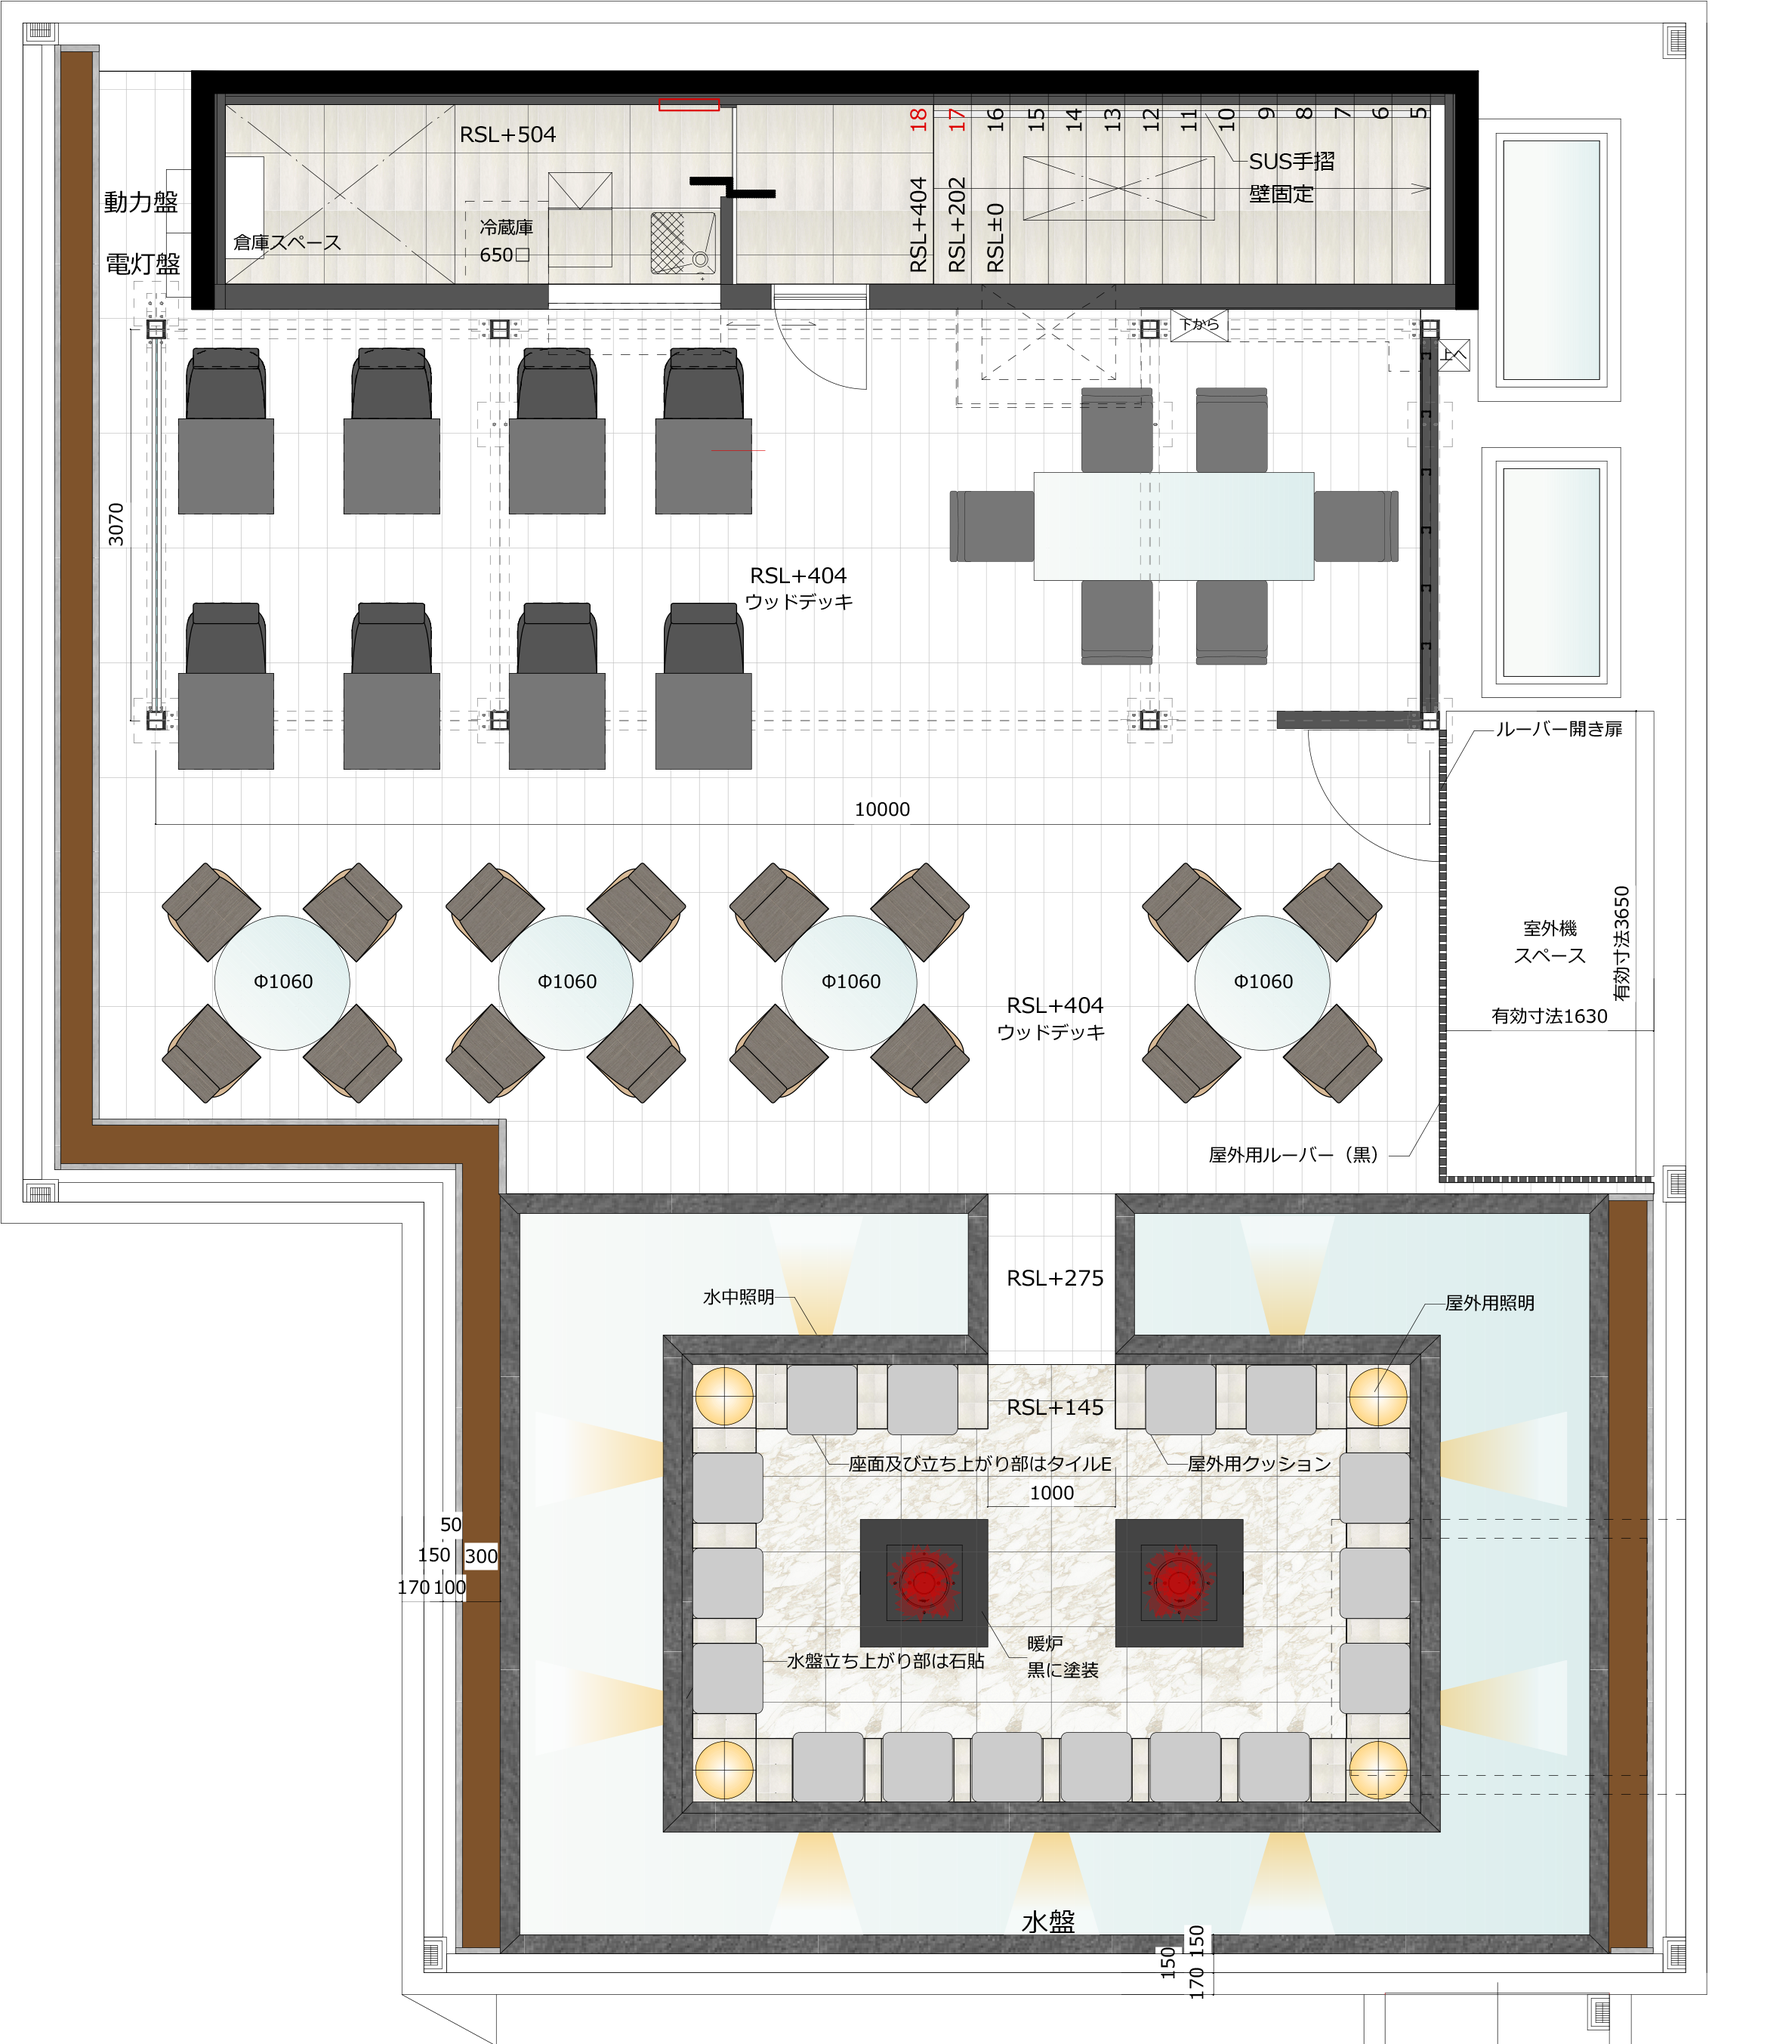
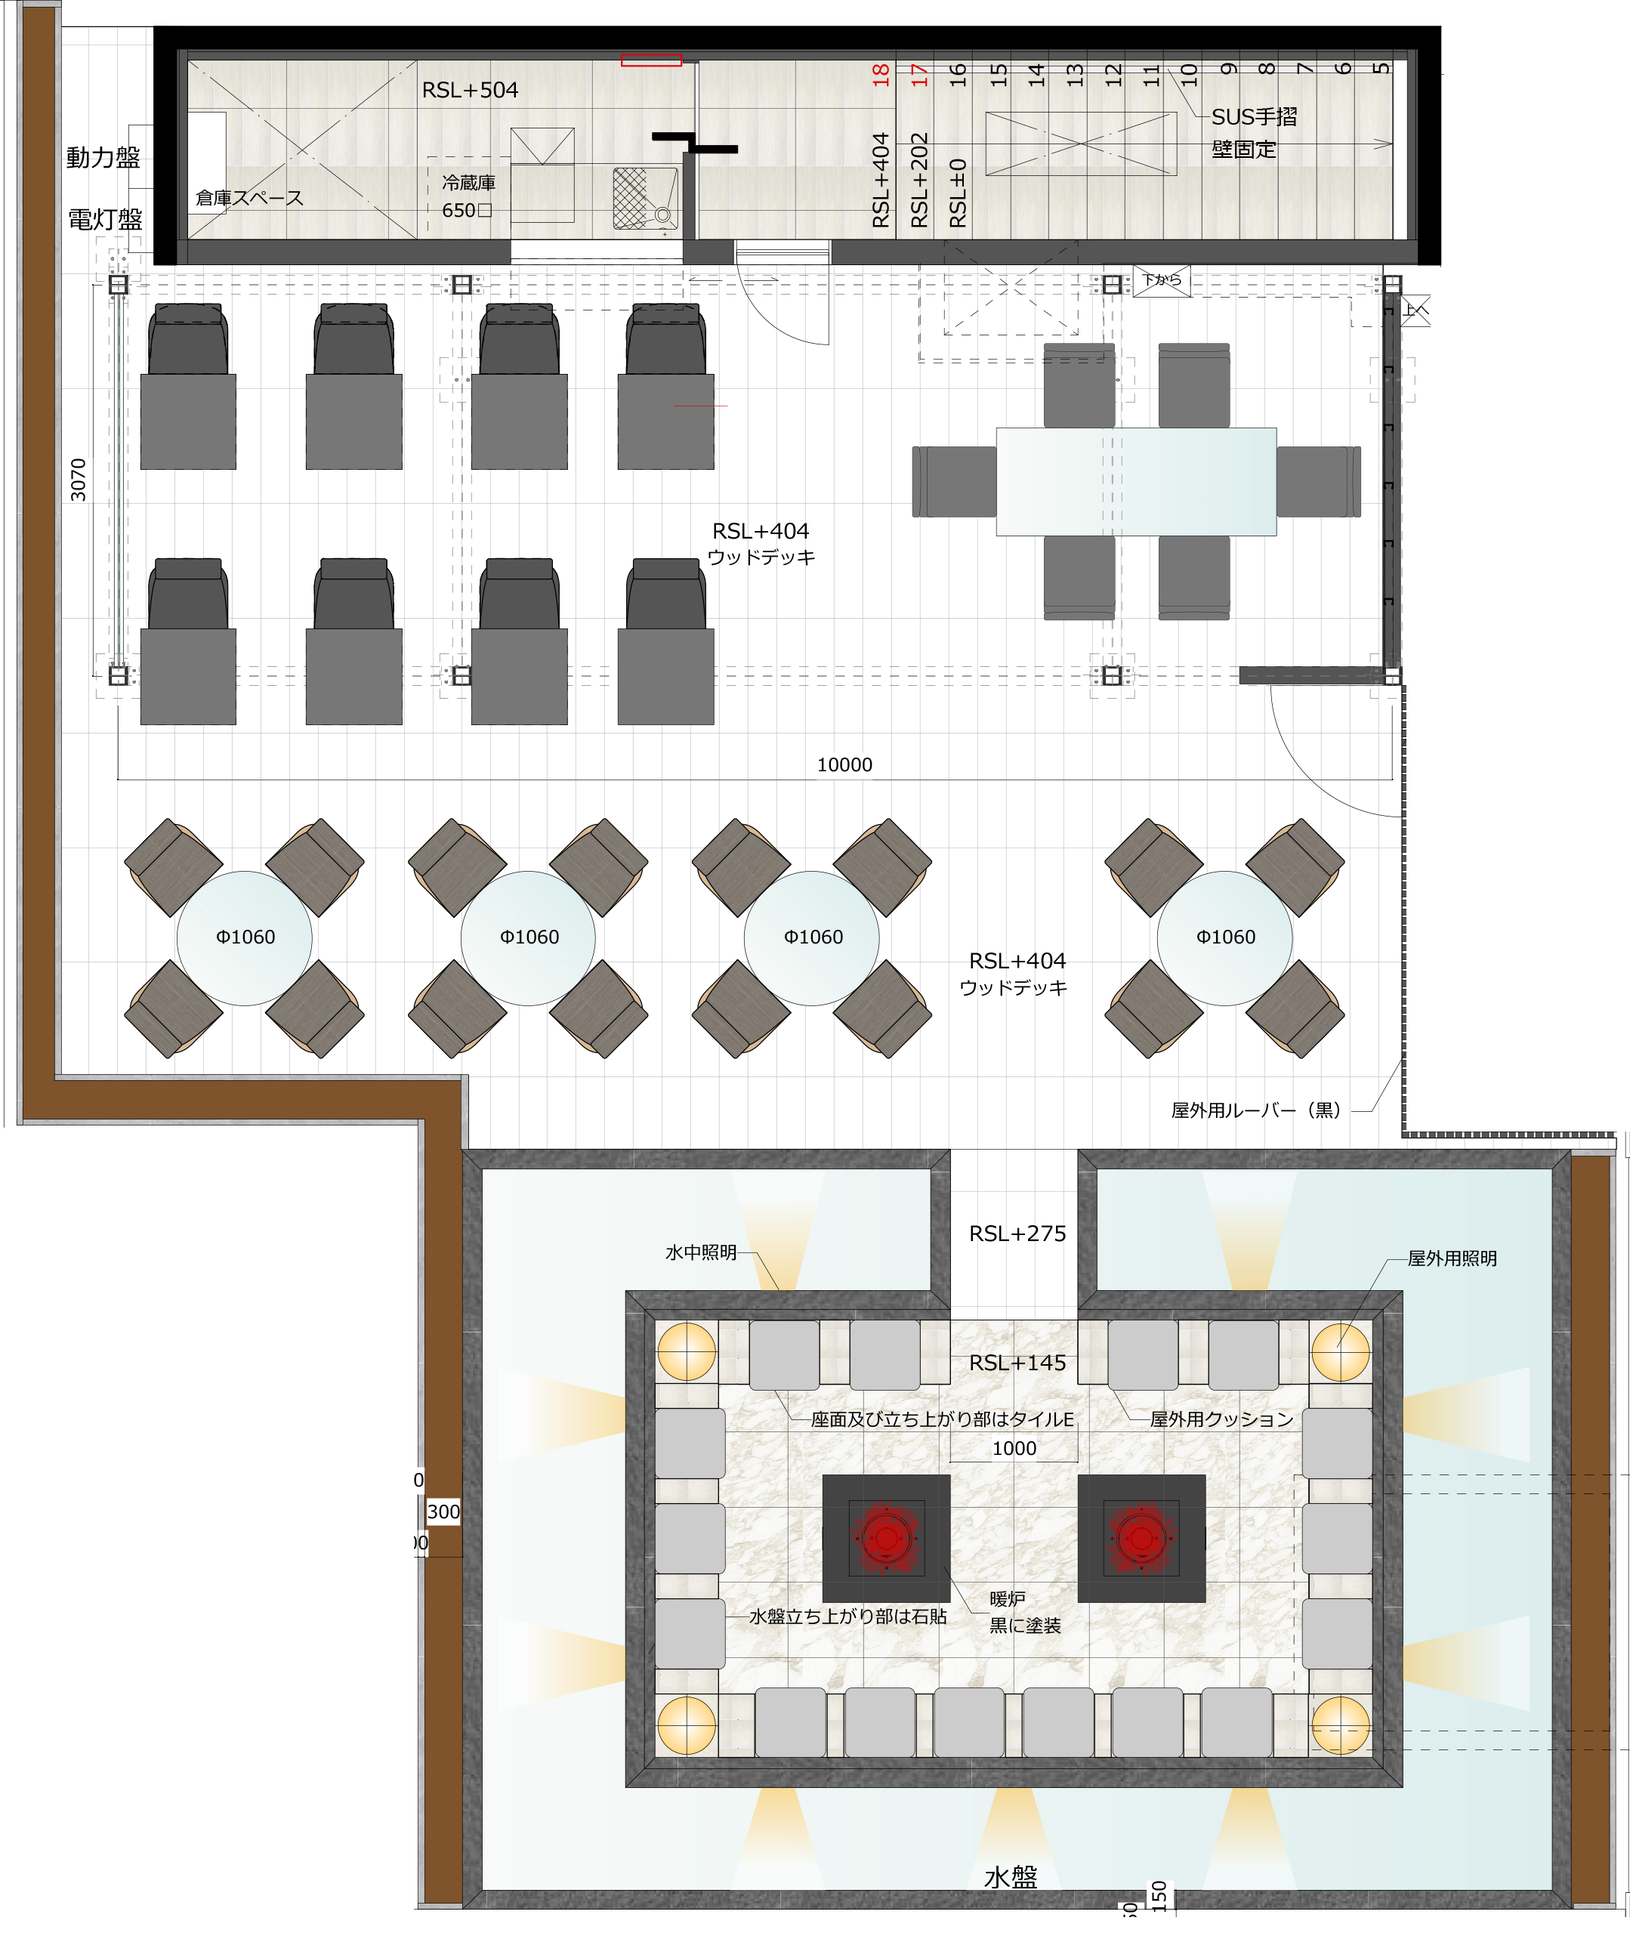
コワーキングページに間取り図を追加

diff --git a/harbors/index.html b/harbors/index.html
@@ -211,13 +211,37 @@ function countClickByGa() {
           <img src="img/wifi.jpg" alt="" class="border card-img-top">
           <div class="card-body">
             <h3 class="card-title">無料Wi-Fi</h3>
-            <p class="card-text mb-lg-4">通信量も十分なWi-Fiと落ち着いた環境のコワーキングスペースでお仕事していただけます。</p>
+            <p class="card-text mb-lg-4">通信量も十分なWi-Fiでお仕事していただけます。</p>
           </div>
         </div>
       </div>
     </div>
   </div>
 </div><!-- /.album	-->
+
+<!-- 間取り -->
+<div class="container">
+  <h2 class="text-center mb-5">集中スペースやテラス席など、気分に応じて好きな場所で作業ができます。</h2>
+  <div class="row">
+    <div class="col-md-6">
+      <div class="card mb-4 border border-0">
+          <img src="img/3F.png" alt="" class="card-img-top">
+          <div class="card-body">
+            <h3 class="card-title text-center">オフィススペース</h3>
+          </div>
+        </div>
+      </div>
+      <div class="col-md-6">
+          <div class="card mb-4 border border-0">
+            <img src="img/RF.png" alt="" class="card-img-top">
+            <div class="card-body">
+              <h3 class="card-title text-center">テラススペース</h3>
+            </div>
+          </div>
+        </div>
+  </div>
+</div>
+
 <!-- アクセス -->
 <div class="access pt-2">
   <div class="container text-center">
